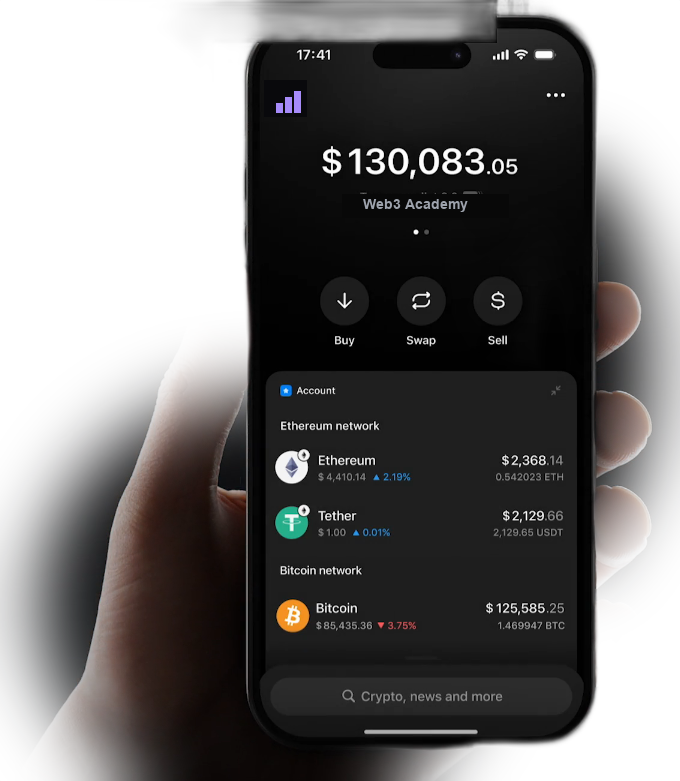
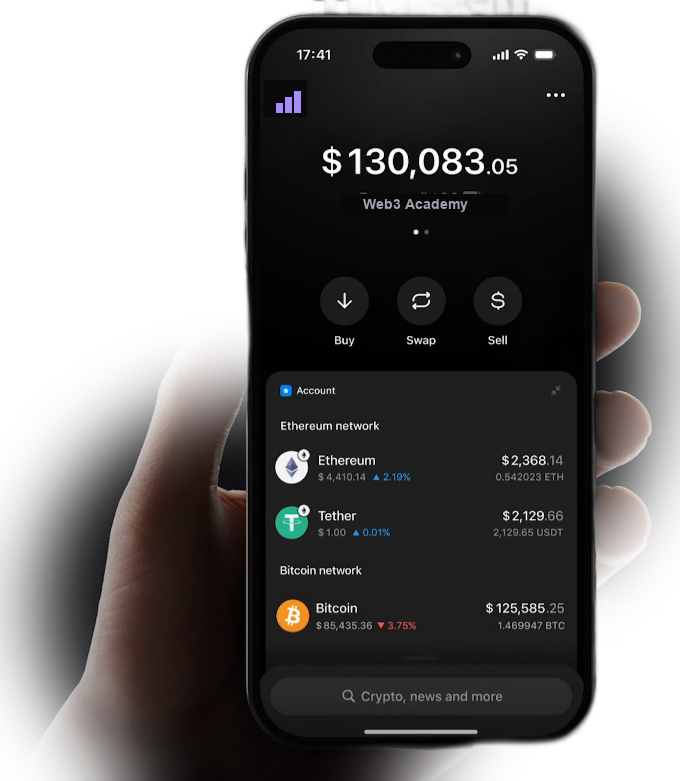
v10.1: фикс верха телефона — убран лишний чёрный бокс (перекрывал структуру iPhone); верх айфона полный (Dynamic Island/статус-бар), вордмарк Tangem удалён вырезом isnet. ?v=5.

Changed region(s): [[0.3088, 0.0, 0.7412, 0.0615]]

diff --git a/index.html b/index.html
@@ -1076,7 +1076,7 @@ html.lenis,html.lenis body{height:auto}
         <p class="lead">Вся система CGS — в одной удобной Майнд-карте: Зоны Капитала, DeFi-инструменты, план действий на росте и падении рынка. Она живёт в Майнд-карте, а не в десятке таблиц.</p>
       </div>
       <div class="phone-wrap" data-dive>
-        <img class="phone-photo" src="assets/phone-hand.png?v=4" alt="Приложение Web3 Academy — портфель и система CGS в руке">
+        <img class="phone-photo" src="assets/phone-hand.png?v=5" alt="Приложение Web3 Academy — портфель и система CGS в руке">
         <div class="phone" hidden>
           <div class="screen">
             <div class="cgs-dash">